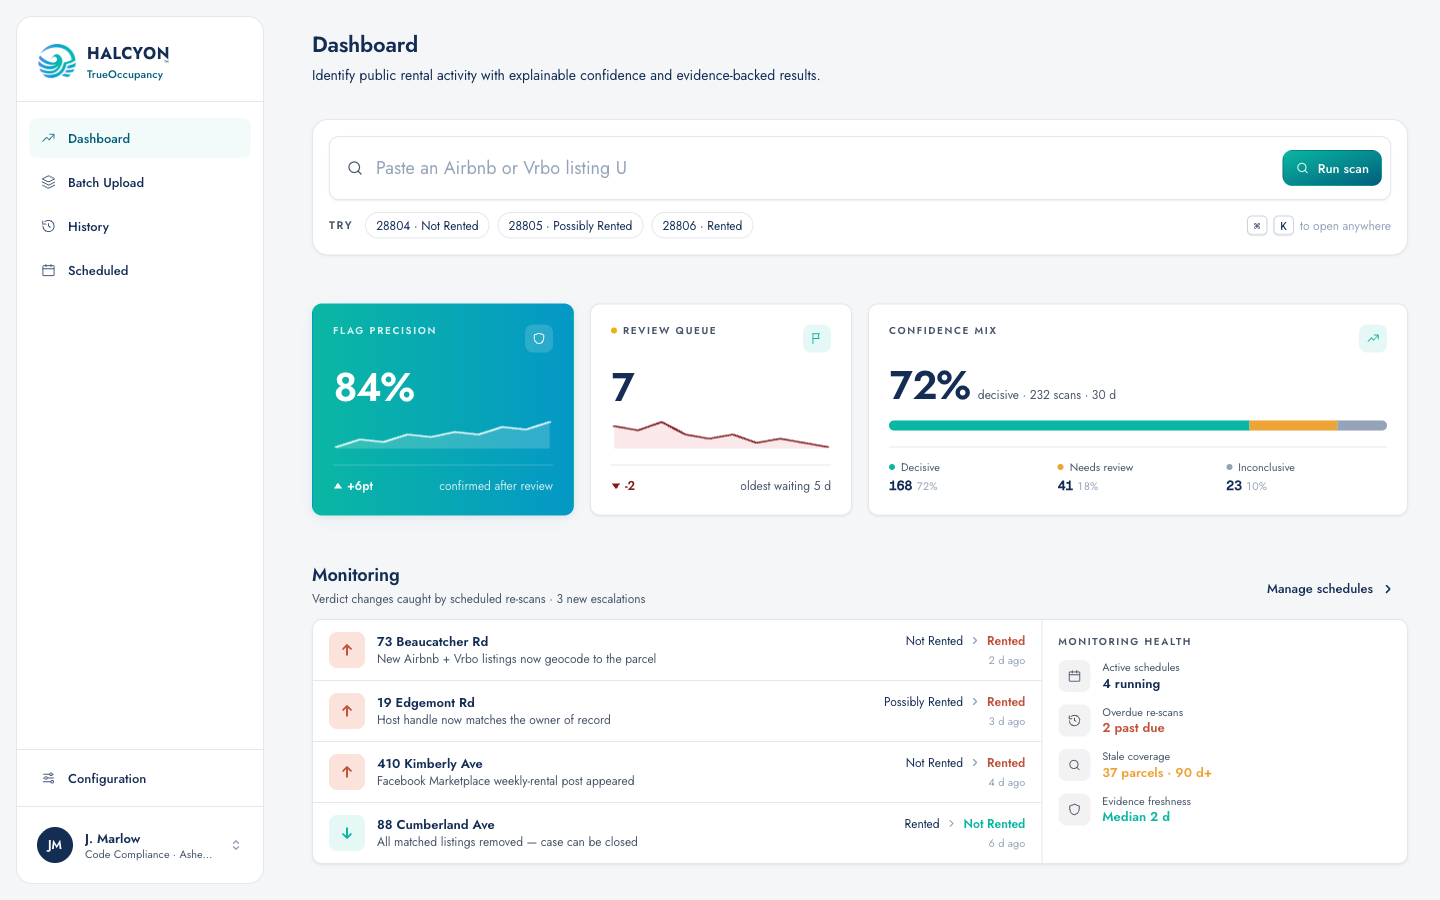
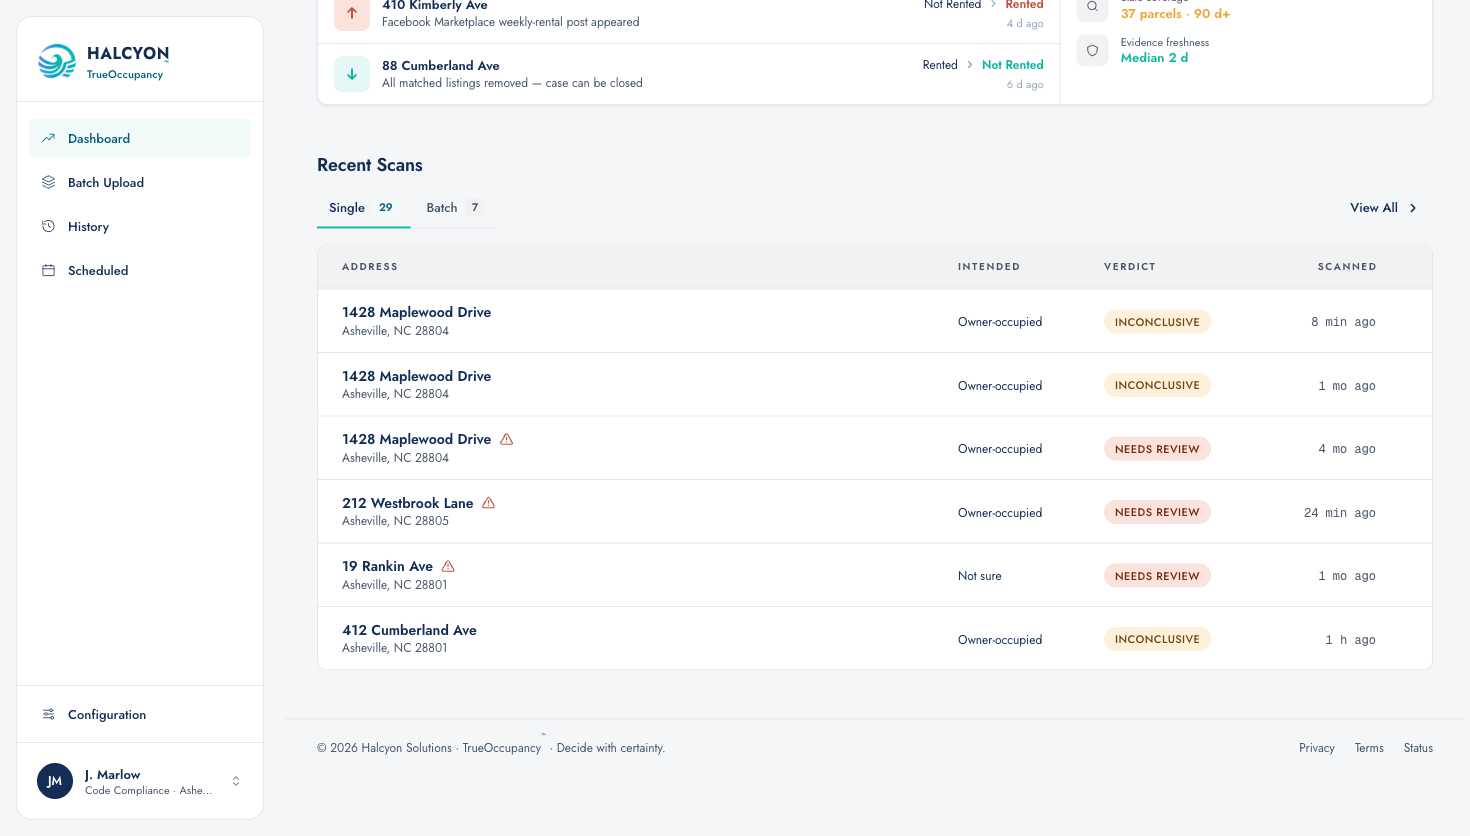
feat(prototype): Intended-occupancy columns across every surface (Trello #34-#39, #48)
- AppState: resolveIntent / summarizeBatchIntent / batchIntentBreakdown —
  the declared-side twin of occMatchForRisk (one resolver, no per-screen
  reimplementation); seed row override so a batch demonstrably reads Mixed
- Dashboard + History: Intended column beside Verdict (single rows show the
  resolved intent; batch rows the summary label or "Mixed" with a hover
  breakdown)
- Batch results: per-address Declared column in the DEFAULT view (promoted
  from the red-filtered set), falling back to the batch default
- Scheduled list: Intended column (single via originating run; batch summary)
- Schedule detail: batch schedules show the summary/Mixed instead of a
  single misleading value
- RunHistory: per-run Intended on both timeline kinds
- ticket-screenshots: re-captured as implemented after-states

diff --git a/src/state/AppState.tsx b/src/state/AppState.tsx
@@ -1,4 +1,4 @@
-/* global React, DEFAULT_OCC_CONFIG */
+/* global React, DEFAULT_OCC_CONFIG, OCC_INTENT_SHORT */
 // AppState — a single source of truth for the three cross-cutting datasets
 // the prototype now spans:
 //   * live batch (one at a time; running or complete)
@@ -209,6 +209,42 @@ function normalizeIntent(raw: string): IntendedOccupancy | null {
   return null;
 }
 
+// ---- Declared-occupancy resolver (Trello #34) ---------------------------
+// The declared twin of occMatchForRisk: one source of truth for "what was
+// this address intended as", consumed by every list column and run row.
+// Never returns blank — an undeclared address resolves to 'not-sure'.
+function resolveIntent(row: { intent?: IntendedOccupancy } | undefined, defaultIntent?: IntendedOccupancy): IntendedOccupancy {
+  return row?.intent ?? defaultIntent ?? 'not-sure';
+}
+
+// Summarise a batch's declared side for a one-row list cell: every address
+// shares one resolved intent → that intent; they differ → 'mixed' with
+// per-intent counts (surfaced on hover). Empty rows fall back to the default.
+function summarizeBatchIntent(
+  rows: Array<{ intent?: IntendedOccupancy }> | undefined,
+  defaultIntent?: IntendedOccupancy
+): { kind: 'uniform'; intent: IntendedOccupancy; counts: Record<string, number> } | { kind: 'mixed'; counts: Record<string, number> } {
+  const counts: Record<string, number> = {};
+  (rows || []).forEach((r) => {
+    const i = resolveIntent(r, defaultIntent);
+    counts[i] = (counts[i] || 0) + 1;
+  });
+  const keys = Object.keys(counts);
+  if (keys.length <= 1) {
+    return { kind: 'uniform', intent: (keys[0] as IntendedOccupancy) ?? defaultIntent ?? 'not-sure', counts };
+  }
+  return { kind: 'mixed', counts };
+}
+
+// "8 Owner-occupied · 4 Rental · 2 Not sure" — the hover breakdown for a
+// Mixed cell. Sorted by count so the dominant intent leads.
+function batchIntentBreakdown(summary: { counts: Record<string, number> }): string {
+  return Object.entries(summary.counts)
+    .sort((a, b) => b[1] - a[1])
+    .map(([i, n]) => `${n} ${OCC_INTENT_SHORT[i as IntendedOccupancy] ?? i}`)
+    .join(' · ');
+}
+
 // Declared × observed → reconciliation. null when the row isn't scanned yet.
 // 'not-sure' never yields an exception (no reference to judge against). risk:
 // 'risk' = Rented (tenants), 'warn' = Possibly rented, 'clean' = Not rented.
@@ -334,7 +370,9 @@ const SEED_BATCH_Q1_ROWS: LiveBatchRow[] = [
 // Smaller batch with a handful of failed rows — demonstrates the "partial"
 // completion state in History.
 const SEED_BATCH_PARTIAL_ROWS: LiveBatchRow[] = [
-  { id: 1, address: '88 Cumberland Ave, Asheville, NC 28801',   status: 'done',   score: 18, risk: 'clean', listings: 0 },
+  // Row 1 overrides the batch default (rental) — keeps this seed batch
+  // "Mixed" so the declared-summary cell is demonstrable without running one.
+  { id: 1, address: '88 Cumberland Ave, Asheville, NC 28801',   status: 'done',   score: 18, risk: 'clean', listings: 0, intent: 'owner-occupied' },
   { id: 2, address: '301 Merrimon Ave, Asheville, NC 28804',    status: 'failed', errorReason: 'Geocoder timeout — retry later' },
   { id: 3, address: '145 Westchester Dr, Asheville, NC 28803',  status: 'done',   score: 76, risk: 'risk',  listings: 3 },
   { id: 4, address: '23 Tunnel Rd, Asheville, NC 28805',        status: 'done',   score: 8,  risk: 'clean', listings: 0 },

diff --git a/src/pages/HomeScreen.tsx b/src/pages/HomeScreen.tsx
@@ -1,4 +1,4 @@
-/* global React, AppShell, Button, Icon, SearchBar, CommandSearch, ScanIntentHero, Pill, DataTable, MetricCard, Tabs, Card, ReactRouterDOM, SCENARIOS, useAppState, ScreenError, ScreenEmpty, RedFlag, BatchRedBadge, timeAgo, seedTime, occMatchForRisk */
+/* global React, AppShell, Button, Icon, SearchBar, CommandSearch, ScanIntentHero, Pill, DataTable, MetricCard, Tabs, Card, ReactRouterDOM, SCENARIOS, useAppState, ScreenError, ScreenEmpty, RedFlag, BatchRedBadge, timeAgo, seedTime, occMatchForRisk, OCC_INTENT_SHORT, resolveIntent, summarizeBatchIntent, batchIntentBreakdown */
 // Home — product-first dashboard. The user lands directly on the working
 // scanner with real evidence visible (KPI strip, recent scans, flagged for
 // review, methodology note). Marketing-landing surfaces (photo hero,
@@ -261,6 +261,19 @@ function buildScanColumns<T extends { address: string; scenario: 'low' | 'medium
       },
     },
     {
+      // Declared side of the reconciliation — always shown next to the
+      // detected Verdict so the two read as a comparison (Trello #35/#36).
+      key: 'intended',
+      label: 'Intended',
+      width: '130px',
+      hideBelow: 'md' as const,
+      cell: (row: T) => (
+        <span className="font-sans text-caption text-ink-2">
+          {OCC_INTENT_SHORT[resolveIntent(row)]}
+        </span>
+      ),
+    },
+    {
       key: 'verdict',
       label: 'Verdict',
       width: '140px',
@@ -520,6 +533,16 @@ const DASHBOARD_SINGLE_COLUMNS: any[] = [
     },
   },
   {
+    // Declared side, beside the detected Verdict (Trello #35).
+    key: 'intended',
+    label: 'Intended',
+    width: '130px',
+    hideBelow: 'md' as const,
+    cell: (r: any) => (
+      <span className="font-sans text-caption text-ink-2">{OCC_INTENT_SHORT[resolveIntent(r)]}</span>
+    ),
+  },
+  {
     // Result — reconciliation of declared intent × scan verdict. Raw verdict
     // moved to the property page.
     key: 'result',
@@ -569,6 +592,22 @@ const DASHBOARD_BATCH_COLUMNS: any[] = [
             {r.total} properties · {r.flagged} flagged
           </div>
         </div>
+      );
+    },
+  },
+  {
+    // Batch summary of the declared side (Trello #35): every address shares
+    // one intent → that label; they differ → "Mixed" (hover = the breakdown).
+    key: 'intended',
+    label: 'Intended',
+    width: '130px',
+    hideBelow: 'md' as const,
+    cell: (r: any) => {
+      const s = summarizeBatchIntent(r.rows, r.defaultIntent);
+      return (
+        <span className="font-sans text-caption text-ink-2" title={batchIntentBreakdown(s)}>
+          {s.kind === 'mixed' ? 'Mixed' : OCC_INTENT_SHORT[s.intent]}
+        </span>
       );
     },
   },

diff --git a/src/components/RunHistory.tsx b/src/components/RunHistory.tsx
@@ -1,5 +1,6 @@
 /* global React, Pill, DataTable, Icon, ReactRouterDOM, useAppState, timeAgo, occMatchForRisk,
-   SCENARIOS, HOME_VERDICT_LABEL, BATCH_STATUS_LABEL, BATCH_STATUS_VARIANT */
+   SCENARIOS, HOME_VERDICT_LABEL, BATCH_STATUS_LABEL, BATCH_STATUS_VARIANT,
+   OCC_INTENT_SHORT, summarizeBatchIntent, batchIntentBreakdown */
 // RunHistory — the "same target, scanned again" log. Instead of History growing
 // a new row every re-scan, History shows ONE row per property/batch (the latest)
 // and the prior runs live here, at the bottom of the detail view. Each row is
@@ -112,6 +113,20 @@ function RunHistory(props: { kind: 'single'; address?: string } | { kind: 'batch
             ),
           },
           {
+            // The intent this run was reconciled against (Trello #48) — it can
+            // differ between runs, which is exactly when two verdicts on one
+            // property stop looking contradictory.
+            key: 'intended',
+            label: 'Intended',
+            width: '130px',
+            hideBelow: 'sm' as const,
+            cell: (r: any) => (
+              <span className="font-sans text-caption text-ink-2">
+                {OCC_INTENT_SHORT[(r.intent as any) ?? 'not-sure']}
+              </span>
+            ),
+          },
+          {
             key: 'result',
             label: 'Result',
             primary: true,
@@ -151,6 +166,22 @@ function RunHistory(props: { kind: 'single'; address?: string } | { kind: 'batch
             cell: (r: any) => {
               const status: 'complete' | 'partial' | 'failed' = r.status ?? 'complete';
               return <Pill variant={BATCH_STATUS_VARIANT[status]}>{BATCH_STATUS_LABEL[status]}</Pill>;
+            },
+          },
+          {
+            // Batch runs: the declared summary for that run (Trello #48) —
+            // uniform label, or "Mixed" with the breakdown on hover.
+            key: 'intended',
+            label: 'Intended',
+            width: '130px',
+            hideBelow: 'sm' as const,
+            cell: (r: any) => {
+              const s = summarizeBatchIntent(r.rows, r.defaultIntent);
+              return (
+                <span className="font-sans text-caption text-ink-2" title={batchIntentBreakdown(s)}>
+                  {s.kind === 'mixed' ? 'Mixed' : OCC_INTENT_SHORT[s.intent]}
+                </span>
+              );
             },
           },
           {

diff --git a/src/pages/HistoryScreen.tsx b/src/pages/HistoryScreen.tsx
@@ -2,7 +2,8 @@
    HOME_VERDICT_LABEL, VERDICT_VARIANT, VERDICT_ACCENT, BATCH_STATUS_LABEL, BATCH_STATUS_VARIANT,
    SCAN_COLUMNS, scanLeadingAccent, useAppState, splitAddress, ChipRow, DateRangePicker, parseAgoHours,
    deriveTitleFromFilename, ScreenError, ScreenEmpty,
-   RedFlag, BatchRedBadge, occMatchForRisk, OCC_STATUS_LABEL, OCC_STATUS_MATCH_LABEL, OCC_STATUS_TONE */
+   RedFlag, BatchRedBadge, occMatchForRisk, OCC_STATUS_LABEL, OCC_STATUS_MATCH_LABEL, OCC_STATUS_TONE,
+   OCC_INTENT_SHORT, resolveIntent, summarizeBatchIntent, batchIntentBreakdown */
 
 // Keep one row per key — the most recently scanned. Stable enough for the
 // History list (re-scans collapse; the full run list lives on the detail view).
@@ -424,6 +425,17 @@ const HISTORY_SINGLE_COLUMNS: any[] = [
     },
   },
   {
+    // Declared side of the reconciliation, beside the detected Verdict
+    // (Trello #36) — the meeting's "compare declared vs detected" column.
+    key: 'intended',
+    label: 'Intended',
+    width: '130px',
+    hideBelow: 'md' as const,
+    cell: (r: any) => (
+      <span className="font-sans text-caption text-ink-2">{OCC_INTENT_SHORT[resolveIntent(r)]}</span>
+    ),
+  },
+  {
     // Result — reconciliation of declared intent × scan verdict. The raw
     // Rented/Possibly/Not-rented finding now lives on the property page.
     key: 'result',
@@ -514,6 +526,22 @@ const HISTORY_BATCH_COLUMNS: any[] = [
             {r.filename} · {r.total} properties · {r.flagged} flagged
           </div>
         </div>
+      );
+    },
+  },
+  {
+    // Batch summary of the declared side (Trello #36): uniform → the label,
+    // differing → "Mixed" with the per-intent breakdown on hover.
+    key: 'intended',
+    label: 'Intended',
+    width: '130px',
+    hideBelow: 'md' as const,
+    cell: (r: any) => {
+      const s = summarizeBatchIntent(r.rows, r.defaultIntent);
+      return (
+        <span className="font-sans text-caption text-ink-2" title={batchIntentBreakdown(s)}>
+          {s.kind === 'mixed' ? 'Mixed' : OCC_INTENT_SHORT[s.intent]}
+        </span>
       );
     },
   },

diff --git a/src/pages/ScheduleDetailScreen.tsx b/src/pages/ScheduleDetailScreen.tsx
@@ -1,6 +1,7 @@
 /* global React, AppShell, Card, Icon, Pill, Modal, Button, DataTable, AutomateModal, ReactRouterDOM, useAppState,
    HOME_VERDICT_LABEL, BATCH_STATUS_LABEL, BATCH_STATUS_VARIANT, splitAddress, deriveTitleFromFilename, ScreenError,
-   Cadence, ScopeRetention, cadenceLabel, sameCadence, occMatchForRisk, SCENARIOS, OCC_INTENT_LABEL, timeAgo */
+   Cadence, ScopeRetention, cadenceLabel, sameCadence, occMatchForRisk, SCENARIOS, OCC_INTENT_LABEL, timeAgo,
+   summarizeBatchIntent, batchIntentBreakdown */
 // Schedule detail — full page for a scheduled automation.
 // Layout:
 //   1. Header bar  — back link (left) + Cancel automation (right, destructive)
@@ -323,6 +324,19 @@ function ScheduleDetailScreen() {
                   {schedule.intent && OCC_INTENT_LABEL[schedule.intent] && (
                     <RuleField label="Intended occupancy" value={OCC_INTENT_LABEL[schedule.intent]} />
                   )}
+                  {/* Batch schedules: one schedule-level value would mislead
+                      when addresses override the default, so show the batch
+                      summary — the shared label, or "Mixed" (Trello #39).
+                      Per-address declared lives on the opened run (#37). */}
+                  {isBatch && runs[0] && (() => {
+                    const s = summarizeBatchIntent(runs[0].rows, runs[0].defaultIntent);
+                    return (
+                      <RuleField
+                        label="Intended occupancy"
+                        value={s.kind === 'mixed' ? `Mixed — ${batchIntentBreakdown(s)}` : OCC_INTENT_LABEL[s.intent]}
+                      />
+                    );
+                  })()}
                   <RuleField label="Next run" value={schedule.nextRunLabel} />
                   <RuleField label="Created" value={timeAgo(schedule.createdAt)} />
                   <RuleField label="Runs to date" value={String(runs.length)} />

diff --git a/src/pages/ScheduledScreen.tsx b/src/pages/ScheduledScreen.tsx
@@ -1,7 +1,7 @@
 /* global React, AppShell, Button, Icon, Pill, DataTable, Drawer, ChipRow, ReactRouterDOM, useAppState,
    HOME_VERDICT_LABEL, VERDICT_ACCENT, splitAddress, deriveTitleFromFilename, ScreenError, ScreenEmpty,
    cadenceLabel, cadenceShort, SCENARIOS, occMatchForRisk, OCC_STATUS_LABEL,
-   RedFlag, BatchRedBadge, timeAgo */
+   RedFlag, BatchRedBadge, timeAgo, OCC_INTENT_SHORT, summarizeBatchIntent, batchIntentBreakdown */
 
 type Filter = 'all' | 'single' | 'batch';
 type OccStatus = 'green' | 'yellow' | 'red';
@@ -164,6 +164,33 @@ function ScheduledScreen() {
               </div>
             )}
           </div>
+        );
+      },
+    },
+    {
+      // Declared side of the schedule's target (Trello #38). A schedule entry
+      // doesn't store intent itself, so — like scheduleStatus above — it reads
+      // off the originating run: single → that scan's intent; batch → the
+      // batch summary (uniform label, or "Mixed" with the hover breakdown).
+      key: 'intended',
+      label: 'Intended',
+      width: '130px',
+      hideBelow: 'md' as const,
+      cell: (r: any) => {
+        if (r.kind === 'batch') {
+          const run = batchRunFor(r);
+          const s = summarizeBatchIntent(run?.rows, run?.defaultIntent);
+          return (
+            <span className="font-sans text-caption text-ink-2" title={batchIntentBreakdown(s)}>
+              {s.kind === 'mixed' ? 'Mixed' : OCC_INTENT_SHORT[s.intent]}
+            </span>
+          );
+        }
+        const run = history.find((h: any) => h.id === r.runHistoryIds?.[0]);
+        return (
+          <span className="font-sans text-caption text-ink-2">
+            {OCC_INTENT_SHORT[(run?.intent as any) ?? 'not-sure']}
+          </span>
         );
       },
     },

diff --git a/src/pages/BatchScreen.tsx b/src/pages/BatchScreen.tsx
@@ -2,7 +2,7 @@
    VERDICT_ACCENT, splitAddress, AutomationControl, AutomationBanner, VerdictTiles, EditableTitle,
    deriveTitleFromFilename, useAppState, AI_BAND_COPY, Modal, StatusPillSelector,
    ChipRow, reconcileOccupancy, INTENDED_OCCUPANCY_LABEL, RedFlag,
-   OCC_INTENT_SHORT, OCC_VERDICT_LABEL, timeAgo, occMatchForRisk, RunHistory */
+   OCC_INTENT_SHORT, OCC_VERDICT_LABEL, timeAgo, occMatchForRisk, RunHistory, resolveIntent */
 // Batch processing — upload a CSV (or click "Try a Sample Batch") to scan
 // dozens of properties in one queue. The empty state is a configuration
 // form (title, description, repeat cadence, optional advanced options);
@@ -1182,6 +1182,21 @@ function buildBatchColumns(
         </div>
       );
     },
+  },
+  {
+    // Per-address declared occupancy in the DEFAULT view (Trello #37) —
+    // promoted from the red-filtered set so overrides of the batch default
+    // are visible without filtering. Falls back to the batch default; a
+    // batch with neither reads "Not sure", never blank.
+    key: 'declared',
+    label: 'Declared',
+    width: '130px',
+    hideBelow: 'md' as const,
+    cell: (row: BatchRow) => (
+      <span className="font-sans text-caption text-ink-2">
+        {OCC_INTENT_SHORT[resolveIntent(row, defaultIntent)]}
+      </span>
+    ),
   },
   {
     key: 'score',
